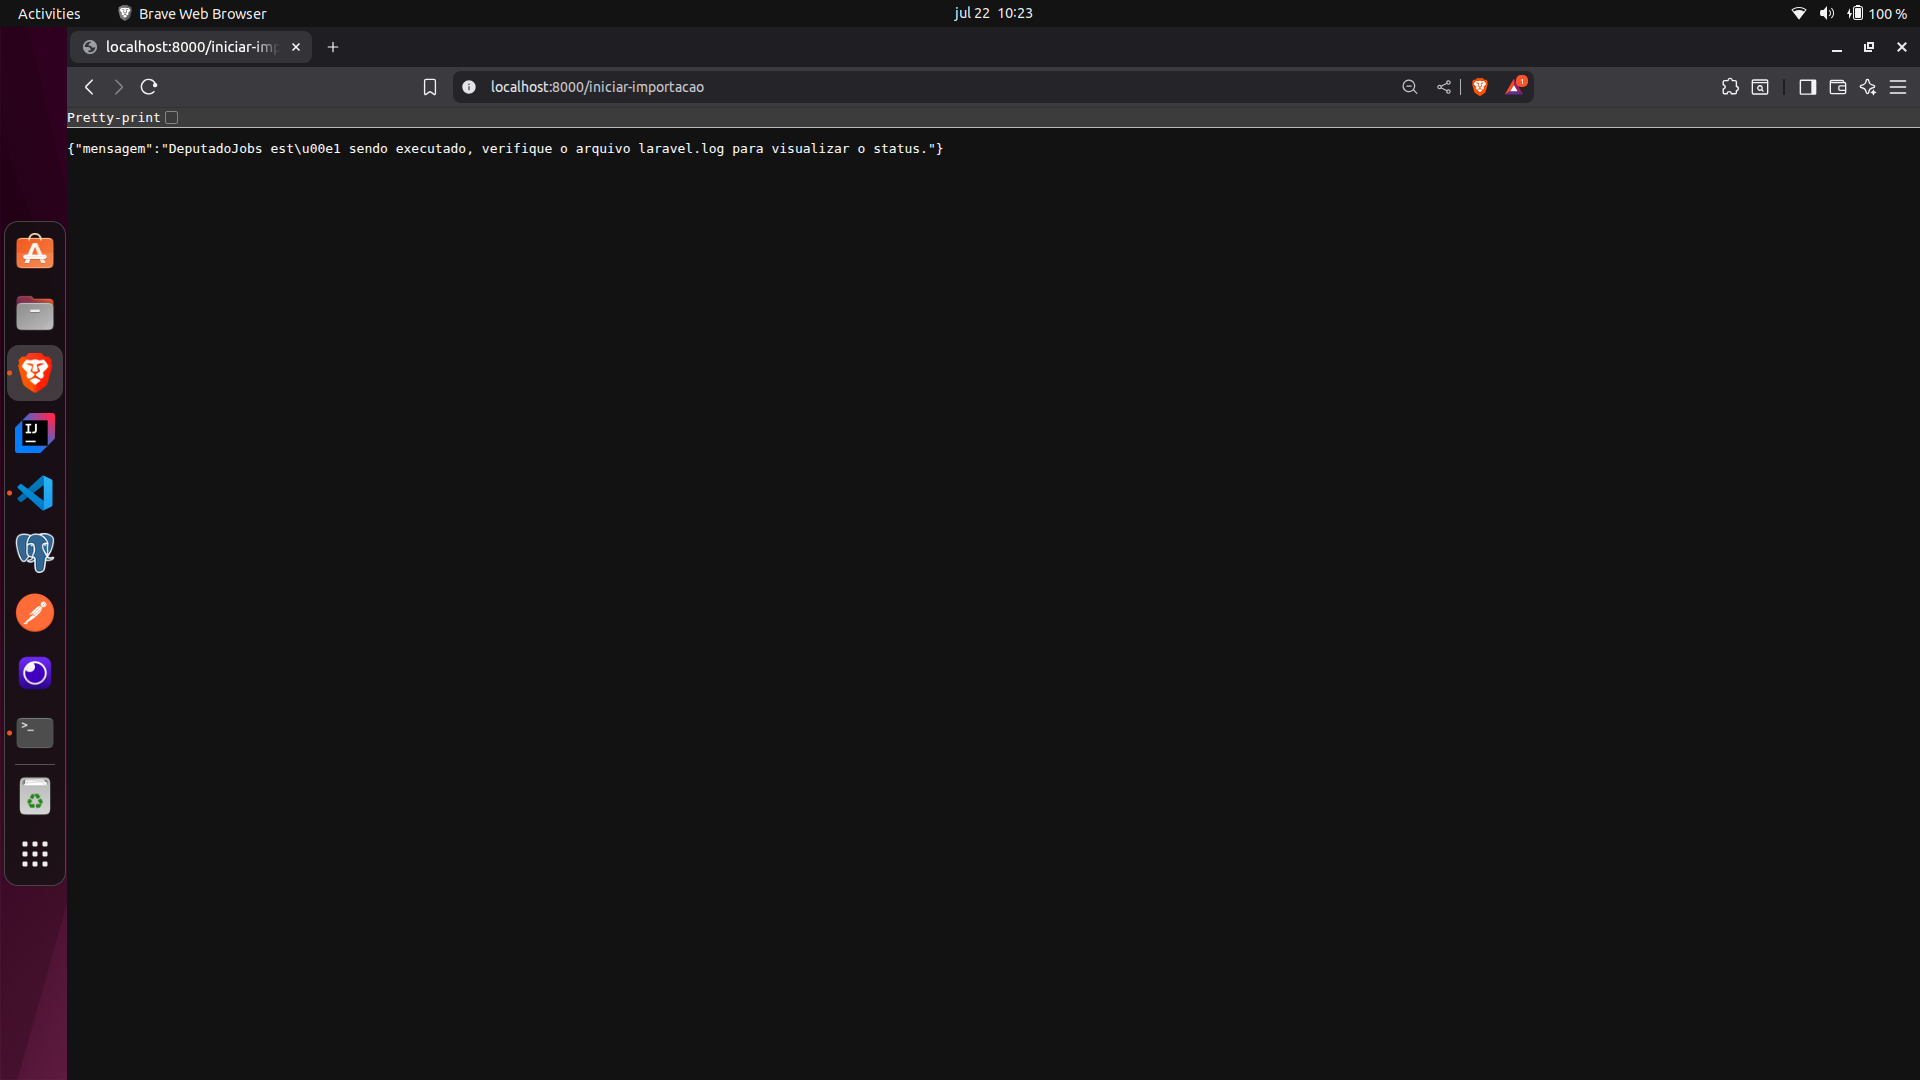
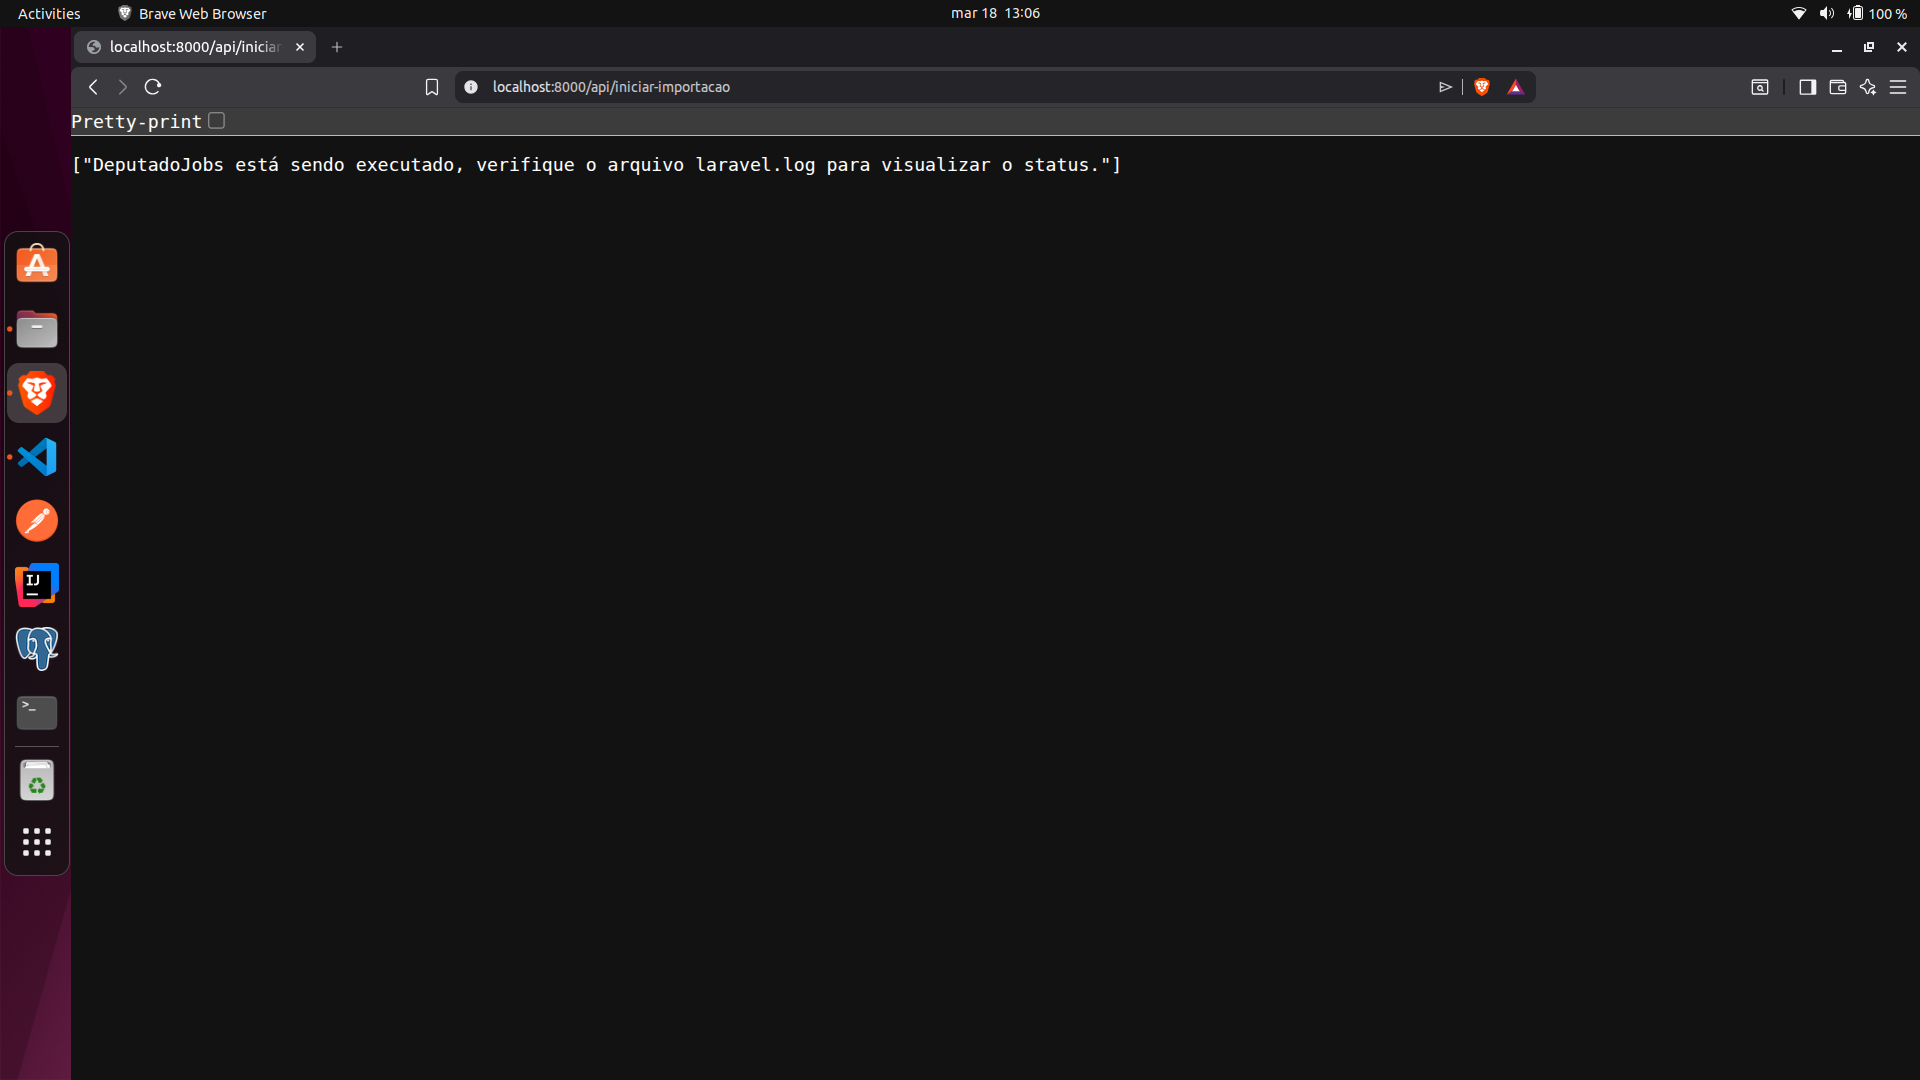
Refactor: Using api.php file.

Changed region(s): [[0.0312, 0.0306, 1.0, 0.1833], [0.0, 0.2139, 0.0312, 0.825], [0.5, 0.0, 0.5312, 0.0306]]

diff --git a/app/Http/Controllers/DeputadoController.php b/app/Http/Controllers/DeputadoController.php
@@ -4,10 +4,8 @@ namespace App\Http\Controllers;
 
 use Illuminate\Http\Request;
 
-use App\Models\Deputado;
-use App\Models\Despesa;
-use App\Http\Resources\DeputadoResource;
-use App\Http\Resources\DespesaResource;
+use App\Models\{Deputado, Despesa};
+use App\Http\Resources\{DeputadoResource, DespesaResource};
 use App\Jobs\DeputadoJobs;
 
 class DeputadoController extends Controller
@@ -15,14 +13,12 @@ class DeputadoController extends Controller
     public function iniciarImportacao()
     {
         DeputadoJobs::dispatch();
-        return response()->json([
-            'mensagem' => 'DeputadoJobs está sendo executado, verifique o arquivo laravel.log para visualizar o status.',
-        ]);
+        return response()->json(['DeputadoJobs está sendo executado, verifique o arquivo laravel.log para visualizar o status.'], 202, [], JSON_UNESCAPED_UNICODE);
     }
 
     public function listarDeputados()
     {
-        $deputados = Deputado::all();
+        $deputados = Deputado::orderby('id')->get();
         if ($deputados->isEmpty()) {
             return response()->json(['message' => 'Deputados não encontrados.'], 404);
         }
@@ -39,7 +35,7 @@ class DeputadoController extends Controller
             $query->where('nome', 'LIKE', '%' . $nome . '%');
         })->with('deputados')->get();
         if ($despesas_deputados->isEmpty()) {
-            return response()->json(['message' => "Deputado(a) $nome não foi encontrado(a) para verificar as despesas."], 404);
+            return response()->json(['message' => "Não foram encontradas despesas do(a) deputado(a) $nome."], 404);
         }
         return DespesaResource::collection($despesas_deputados);
     }

diff --git a/routes/web.php b/routes/web.php
@@ -6,7 +6,3 @@ use App\Http\Controllers\DeputadoController;
 Route::get('/', function () {
     return view('welcome');
 });
-
-Route::get('iniciar-importacao', [DeputadoController::class, 'iniciarImportacao']);
-Route::get('listar-deputados', [DeputadoController::class, 'listarDeputados']);
-Route::get('buscar-despesas-deputado', [DeputadoController::class, 'buscarDespesasDeputado']);

diff --git a/routes/api.php b/routes/api.php
@@ -1,0 +1,8 @@
+<?php
+
+use Illuminate\Support\Facades\Route;
+use App\Http\Controllers\DeputadoController;
+
+Route::get('iniciar-importacao', [DeputadoController::class, 'iniciarImportacao']);
+Route::get('listar-deputados', [DeputadoController::class, 'listarDeputados']);
+Route::get('buscar-despesas-deputado', [DeputadoController::class, 'buscarDespesasDeputado']);

diff --git a/bootstrap/app.php b/bootstrap/app.php
@@ -7,6 +7,7 @@ use Illuminate\Foundation\Configuration\Middleware;
 return Application::configure(basePath: dirname(__DIR__))
     ->withRouting(
         web: __DIR__.'/../routes/web.php',
+        api: __DIR__.'/../routes/api.php',
         commands: __DIR__.'/../routes/console.php',
         health: '/up',
     )

diff --git a/README.md b/README.md
@@ -94,7 +94,7 @@ docker compose exec app php artisan queue:work
 03 - Insira o endereço abaixo no navegador ou alguma API Plataform para iniciar o processo de inserção de dados:
 
 ```
-http://localhost:8000/iniciar-importacao
+http://localhost:8000/api/iniciar-importacao
 ```
 
 04 - Com isso você pode ver a seguinte mensagem:
@@ -131,7 +131,7 @@ Agora você precisa seguir com a atenção para executar os endpoints:
 
 > Listar deputados
 
-**GET: localhost:8000/listar-deputados**
+**GET: localhost:8000/api/listar-deputados**
 
 ```
 // Response - Status: 200 OK
@@ -158,7 +158,7 @@ Agora você precisa seguir com a atenção para executar os endpoints:
 
 > Listar despesas de determinado deputado
 
-**GET: localhost:8000/buscar-despesas-deputado?nome=**
+**GET: localhost:8000/api/buscar-despesas-deputado?nome=**
 - Você precisa alterar **nome=** para **nome=Tiririca**.
 
 ```
